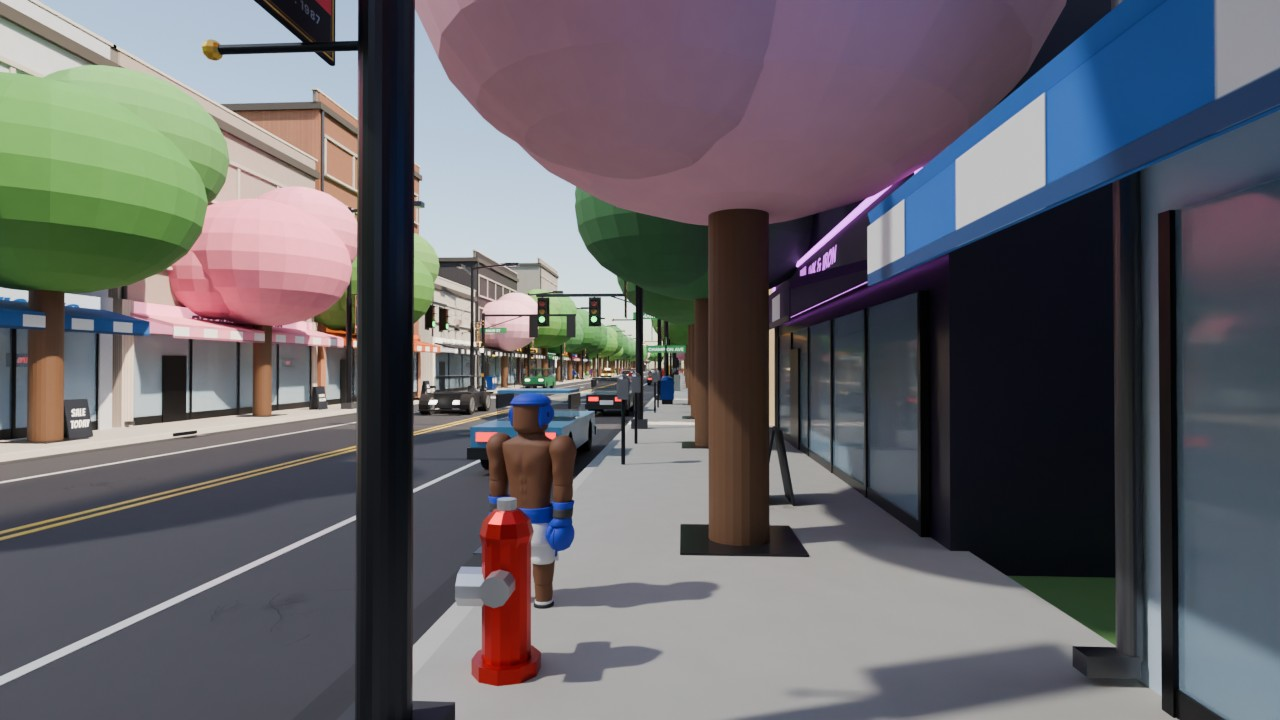
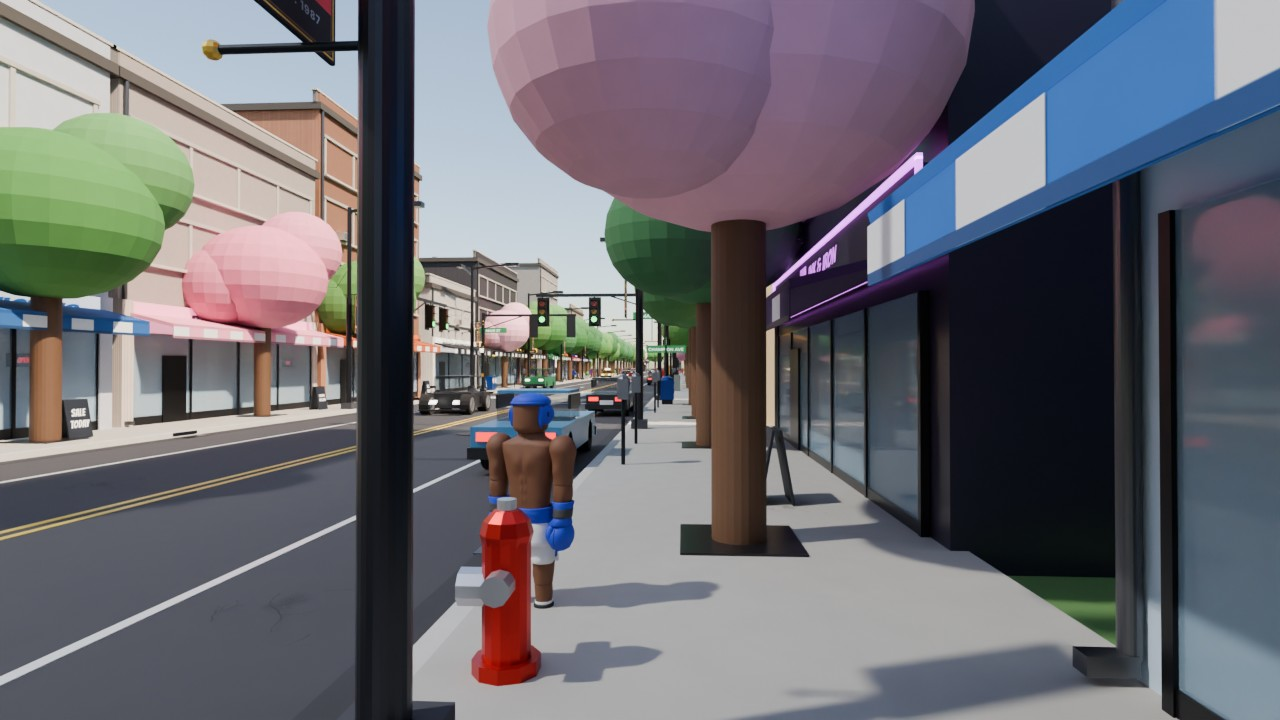
WIP: city overhaul checkpoint
Claude-Session: https://claude.ai/code/session_01HNk7DeEaHDaKo3zPgaW9Pz

diff --git a/world-class-boxer/tools/world/render_city_v10.py b/world-class-boxer/tools/world/render_city_v10.py
@@ -31,11 +31,11 @@ VIEWS = {
     "02_downtown_aerial": {"eye": (-420, 300, 820), "target": (40, 0, 260), "fov": 45, "mode": "day", "cull": ((0, 10, 250), 1100)},
     "03_main_street_day": {"eye": (-150, 7, 348), "target": (140, 10, 330), "fov": 55, "mode": "day", "cull": ((0, 10, 330), 900), "fig": (-132, 344, 70)},
     "04_main_street_night": {"eye": (-150, 7, 348), "target": (140, 10, 330), "fov": 55, "mode": "night", "cull": ((0, 10, 330), 700), "exposure": 1.0, "fig": (-132, 344, 70)},
-    "05_champion_ave": {"eye": (16, 7, 292), "target": (0, 14, 120), "fov": 55, "mode": "day", "cull": ((0, 10, 200), 800)},
+    "05_champion_ave": {"eye": (6, 7, 286), "target": (0, 14, 110), "fov": 55, "mode": "day", "cull": ((0, 10, 200), 800)},
     "06_gym_forecourt": {"eye": (-70, 10, 160), "target": (0, 14, 70), "fov": 55, "mode": "day", "cull": ((0, 10, 110), 600)},
-    "07_scale_car": {"eye": (104, 5.5, 130), "target": (88, 3.5, 110), "fov": 50, "mode": "day", "cull": ((90, 5, 115), 400), "fig": (95, 114, 150)},
+    "07_scale_car": {"eye": (114, 5.5, 142), "target": (90, 3.5, 112), "fov": 50, "mode": "day", "cull": ((90, 5, 115), 400), "fig": (101, 124, 150)},
     "08_scale_door": {"eye": (-394, 6.5, 344), "target": (-410, 5, 357), "fov": 50, "mode": "day", "cull": ((-410, 5, 350), 400), "fig": (-405, 352.5, 160)},
-    "09_scale_streetlight": {"eye": (-330, 7, 280), "target": (-352, 12, 300), "fov": 55, "mode": "day", "cull": ((-350, 10, 300), 500), "fig": (-347, 295, 140)},
+    "09_scale_streetlight": {"eye": (-326, 6.5, 293), "target": (-352, 14, 299), "fov": 60, "mode": "day", "cull": ((-350, 10, 300), 500), "fig": (-345, 294.5, 120)},
     "10_park_fountain": {"eye": (400, 9, 120), "target": (480, 8, 40), "fov": 55, "mode": "day", "cull": ((480, 10, 40), 600)},
     "11_arena_plaza": {"eye": (-110, 14, -430), "target": (0, 32, -570), "fov": 55, "mode": "day", "cull": ((0, 20, -520), 700)},
     "12_oak_street": {"eye": (-448, 8, 90), "target": (-430, 12, -120), "fov": 55, "mode": "day", "cull": ((-440, 10, -20), 600)},

diff --git a/world-class-boxer/previews/final/v10/city/README.md b/world-class-boxer/previews/final/v10/city/README.md
@@ -1,0 +1,26 @@
+# v10 city previews: the town rebuilt at real-world scale
+
+Offline Cycles renders of the server city (CityMap / CityKit / CityShops), the client's local city and the
+WorldDetail layer as `tools/sim/world_scene.luau --only city` dumps them, through `tools/world/render_city_v10.py`
+(the same scene builder as `tools/sim/world_render.py`; day sky, the night shots switch the NightLight lights on).
+Scale: 1 stud = 0.28 m (Config.City). The boxer in the scale shots is the real tier-3 rig exported by
+`tools/sim/v8_scene.luau` (6.2 studs tall).
+
+| File | What it shows |
+|---|---|
+| `01_overview_aerial.jpg` | The whole map: gym campus inside the loop, downtown south, Oak Street and the hills west, the park, river and far bank east, the arena north |
+| `02_downtown_aerial.jpg` | Main Street's two rows, 2nd Street's towers, the campus, the arena and the industrial quarter behind |
+| `03_main_street_day.jpg` | Street level on Main Street's south sidewalk (12.5-stud lanes, parking lanes, shop fronts, signals) |
+| `04_main_street_night.jpg` | The same view after dark: street lights, neon, shop windows |
+| `05_champion_ave.jpg` | Champion Ave from Main Street towards the gym: the Walk of Fame, the loop crossing, the forecourt |
+| `06_gym_forecourt.jpg` | The entrance plaza in front of the gym: planters, benches, lamps, the welcome board |
+| `07_scale_car.jpg` | SCALE: a boxer beside a 16 x 5.7 x 5.4-stud sedan in the member lot (2.7 x 5 m bays) |
+| `08_scale_door.jpg` | SCALE: a boxer at Champ's Diner (door 7.5 studs = 2.1 m, 14-stud ground floor) |
+| `09_scale_streetlight.jpg` | SCALE: a boxer under a 30-stud (8.4 m) street light on Main Street |
+| `10_park_fountain.jpg` | Riverside Park: the fountain plaza, paths, lamps, benches and the trees |
+| `11_arena_plaza.jpg` | The Grand Arena (R 120, 70 tall) from its plaza: flags, barriers, ticket booths |
+| `12_oak_street.jpg` | Oak Street: two-storey houses with garages and drives, 22-stud residential lights |
+| `13_waterfront.jpg` | The promenade, boardwalk, pier and the river with the Foundry Street bridge and the far bank |
+| `14_elite_industrial.jpg` | The Elite Performance Center, Elite Way, the warehouses and the construction crane |
+| `15_estates.jpg` | Hillcrest Estates' gate at the top of Oak Street |
+| `16_plan_campus.jpg` | Plan of the campus (north is down): loop road, forecourt, parking, plaza, yard, training field |
